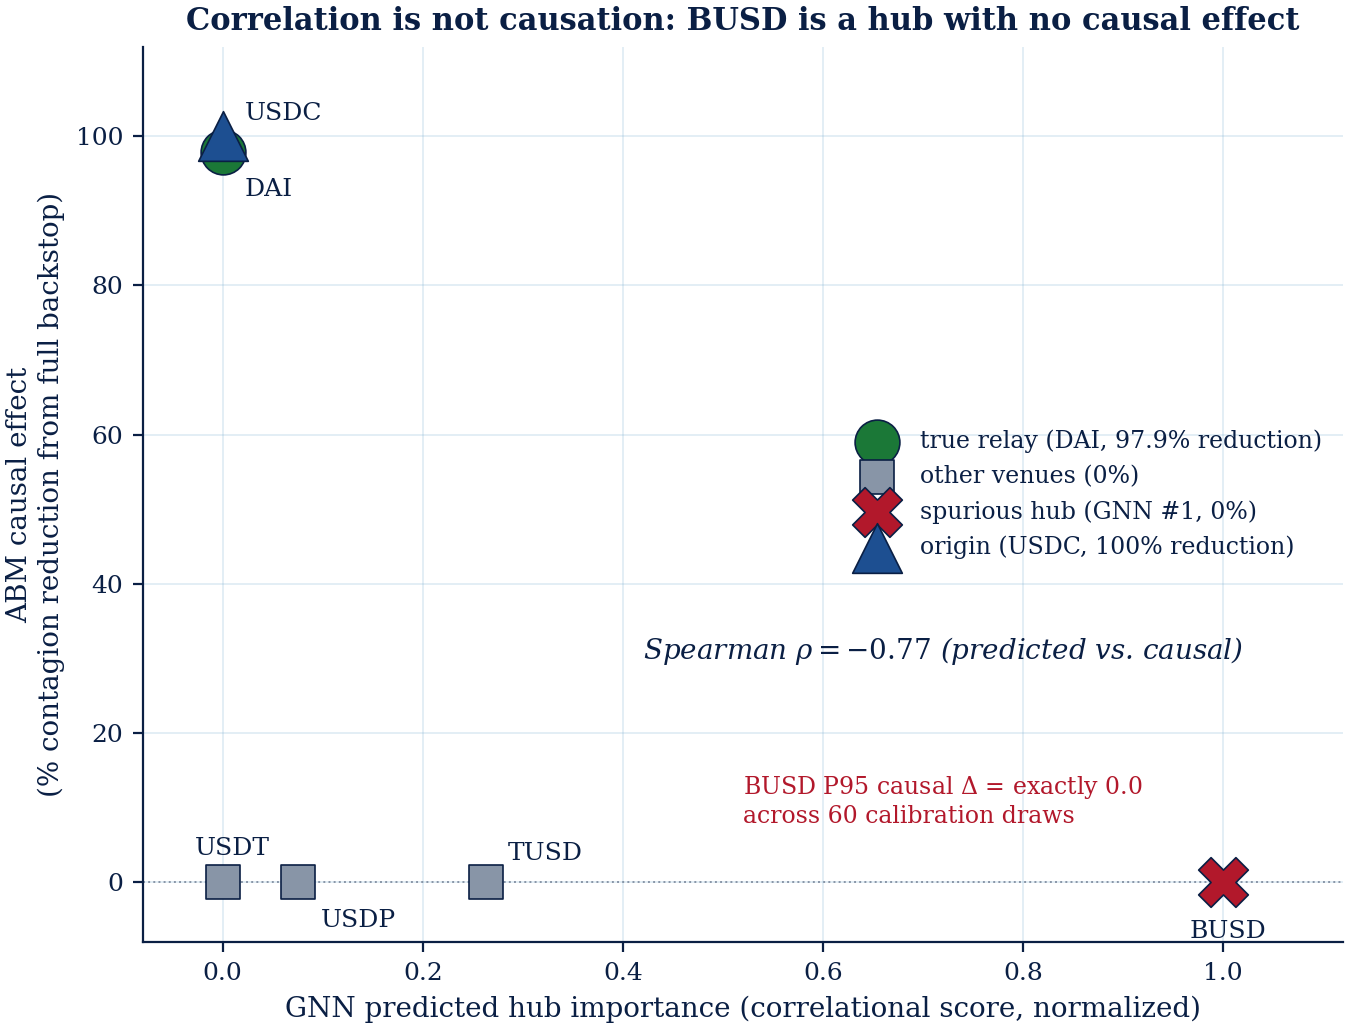
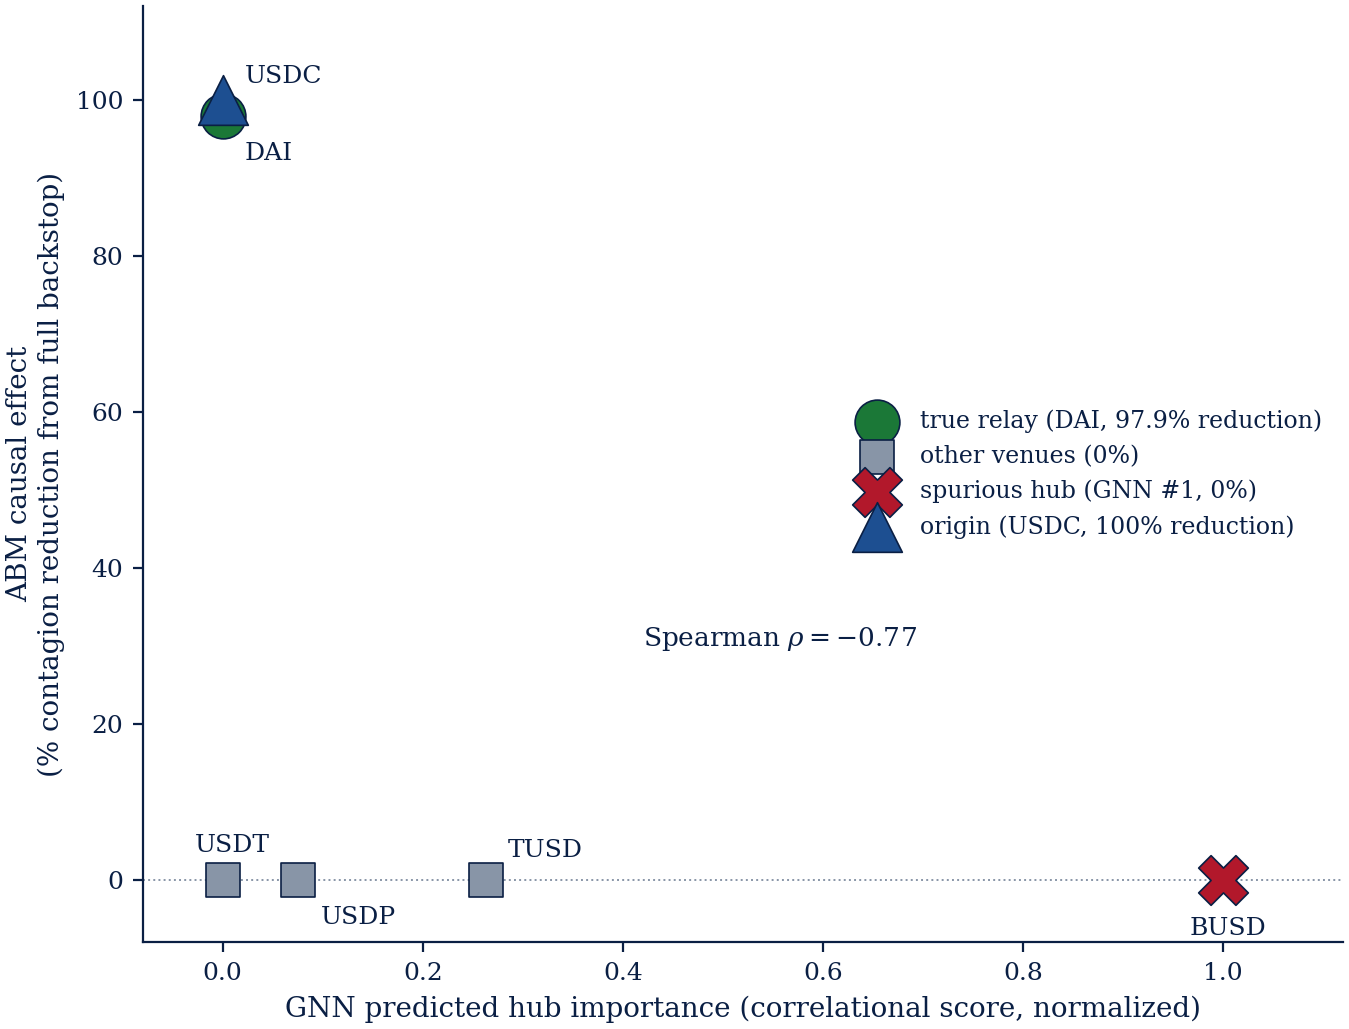
De-AI figures: sober style (non-bold titles, no grid) + causal-join drops sentence title, red callout box, italic stat

diff --git a/scripts/paper_style.py b/scripts/paper_style.py
@@ -59,7 +59,7 @@ def apply() -> None:
         "font.family": "serif",
         "font.serif": ["DejaVu Serif", "Times New Roman", "Times"],
         "mathtext.fontset": "dejavuserif",
-        "font.size": 10.5, "axes.titlesize": 11, "axes.titleweight": "bold",
+        "font.size": 10.5, "axes.titlesize": 10.5, "axes.titleweight": "normal",
         "axes.labelsize": 10, "legend.fontsize": 8.5,
         "xtick.labelsize": 9, "ytick.labelsize": 9,
         # Columbia institutional ink: navy axes / text / ticks, not generic black.
@@ -67,9 +67,8 @@ def apply() -> None:
         "axes.titlecolor": NAVY_INK, "axes.edgecolor": NAVY_INK,
         "xtick.color": NAVY_INK, "ytick.color": NAVY_INK,
         "axes.spines.top": False, "axes.spines.right": False,
-        "axes.grid": True, "grid.color": COLUMBIA_MID,
-        "grid.alpha": 0.22, "grid.linewidth": 0.6,
-        "axes.axisbelow": True, "lines.linewidth": 2.0,
+        "axes.grid": False,
+        "axes.axisbelow": True, "lines.linewidth": 1.5,
         "patch.edgecolor": NAVY_INK,
         "legend.frameon": False, "figure.autolayout": False,
     })

diff --git a/scripts/make_causal_join_figure.py b/scripts/make_causal_join_figure.py
@@ -78,14 +78,10 @@ def main() -> None:
     ax.axhline(0, color=ps.GREY, lw=0.7, ls=":", zorder=1)
     ax.set_xlabel("GNN predicted hub importance (correlational score, normalized)")
     ax.set_ylabel("ABM causal effect\n(% contagion reduction from full backstop)")
-    ax.set_title("Correlation is not causation: BUSD is a hub with no causal effect")
     ax.set_xlim(-0.08, 1.12)
     ax.set_ylim(-8, 112)
 
-    ax.annotate(f"Spearman $\\rho = {rho:.2f}$ (predicted vs. causal)",
-                xy=(0.42, 30), fontsize=10, color=ps.INK, style="italic")
-    ax.annotate("BUSD P95 causal $\\Delta$ = exactly 0.0\nacross 60 calibration draws",
-                xy=(0.52, 8), fontsize=8.5, color=ps.RED)
+    ax.annotate(f"Spearman $\\rho = {rho:.2f}$", xy=(0.42, 30), fontsize=9.5, color=ps.INK)
 
     ax.legend(loc="center right", fontsize=8.5, frameon=False)
     fig.tight_layout()